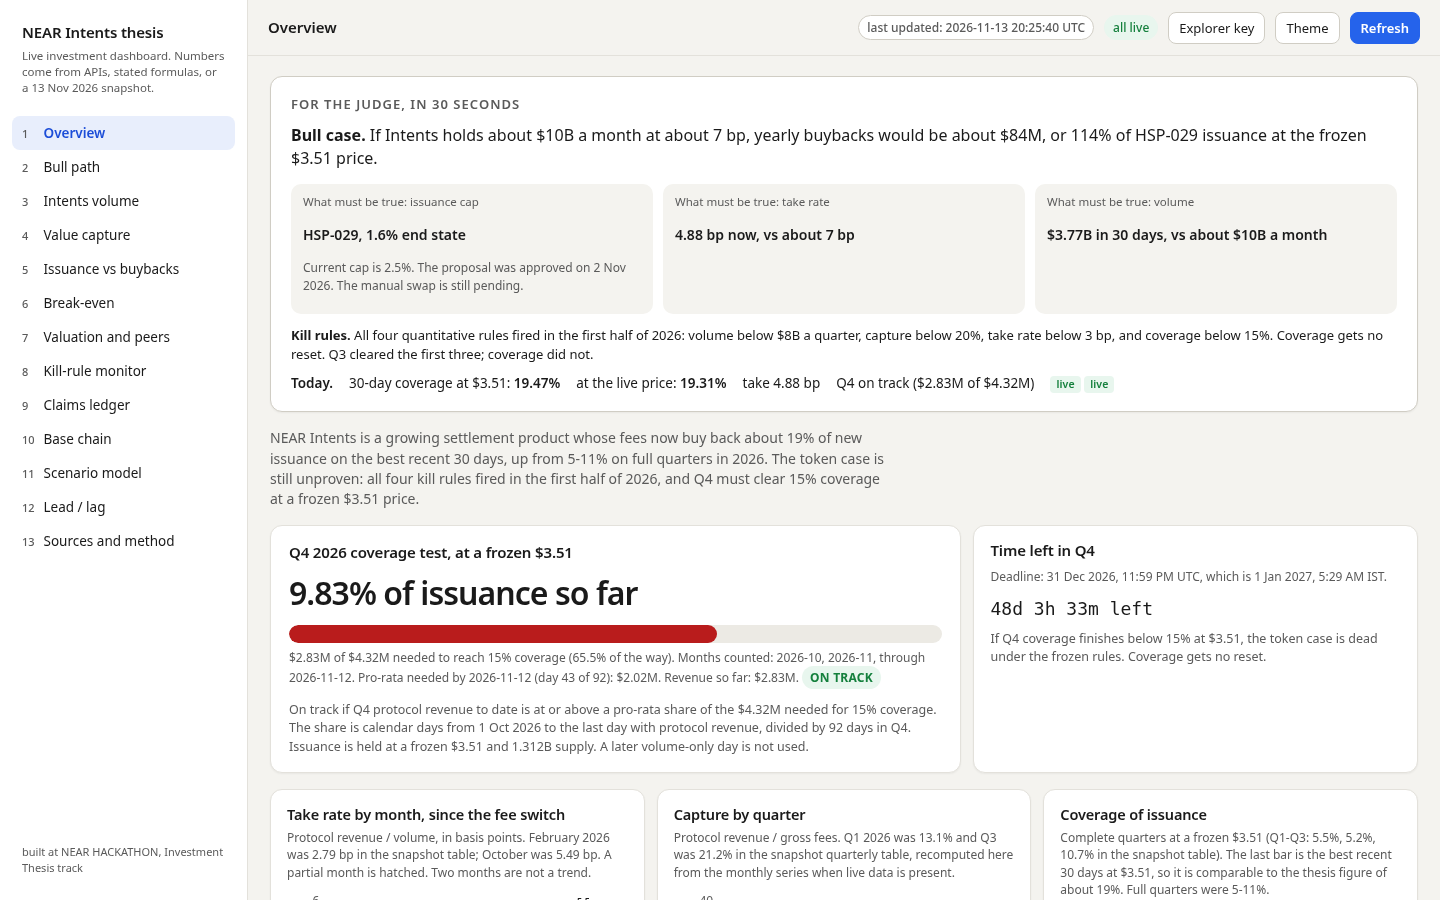
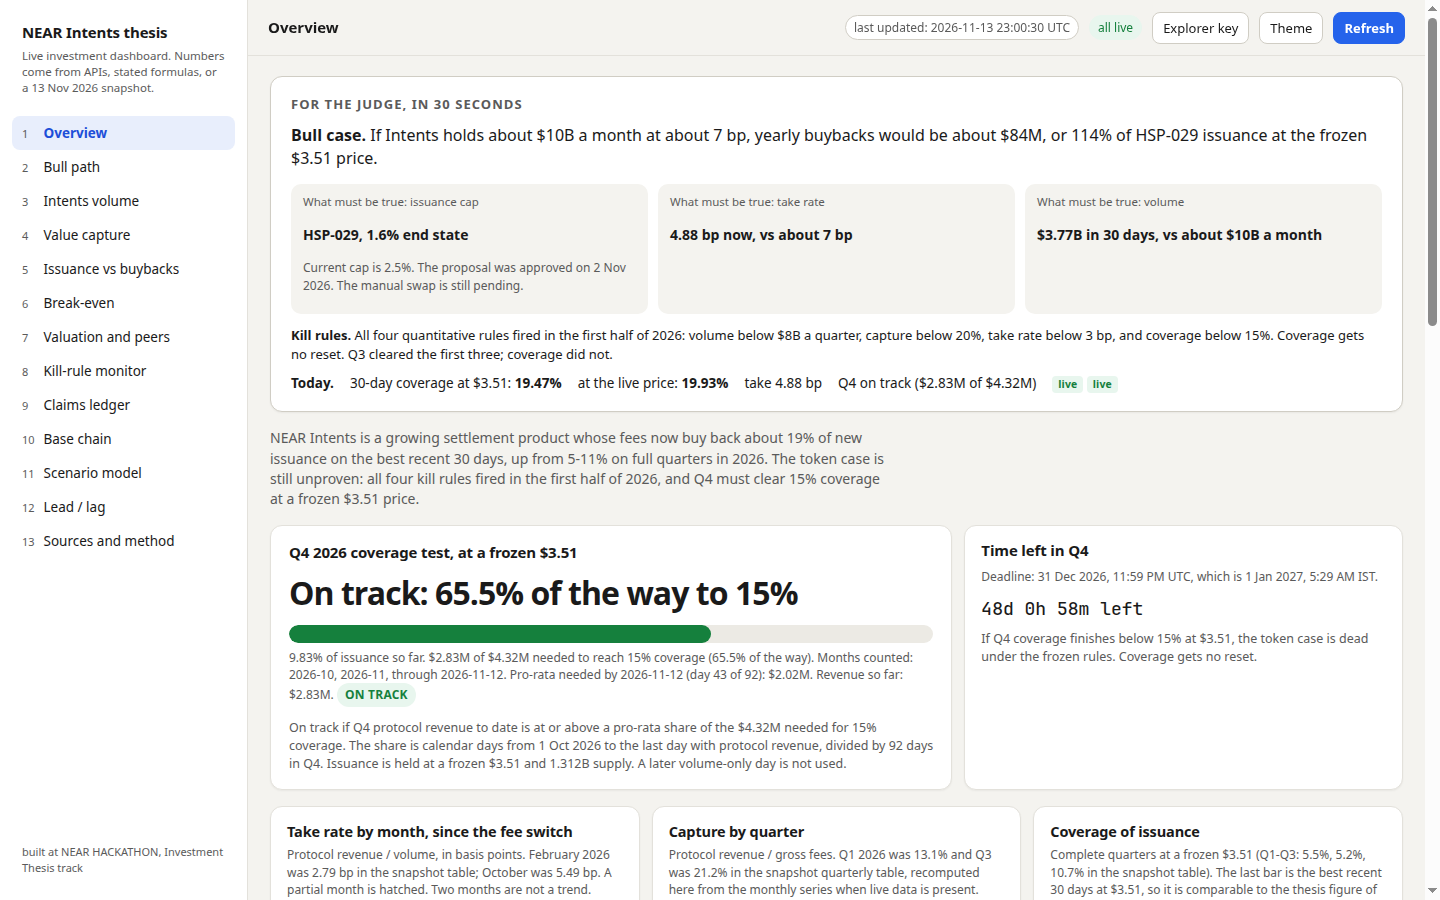
Q4 headline: on-track progress with green bar (#6)
Show Q4 progress as "On track: X% of the way to 15%" and paint the bar green when the quarter is on track.

diff --git a/app.js b/app.js
@@ -664,12 +664,17 @@
     const proLine = pace.proration != null
       ? ("Pro-rata needed by " + pace.lastDay + " (day " + pace.days + " of 92): " + fmtB(pace.proration) + ". Revenue so far: " + fmtB(c.q4rev) + ".")
       : "";
+    const wayPct = ((c.q4progress || 0) * 100).toFixed(1);
+    const head = !pace.known
+      ? (wayPct + "% of the way to 15%")
+      : ((pace.onTrack ? "On track: " : "Not on track: ") + wayPct + "% of the way to 15%");
+    const barCls = !pace.known ? " wait" : (pace.onTrack ? " ontrack" : " risk");
     return '<div class="q4-hero">' +
       '<div class="card hero-main"' + tip(method) + '>' +
         '<h3>Q4 2026 coverage test, at a frozen $3.51</h3>' +
-        '<div class="q4-stat">' + fmtPct(c.q4cov) + " of issuance so far</div>" +
-        '<div class="progress' + ((c.q4cov != null && c.q4cov < 0.15) ? " risk" : "") + '"><span style="width:' + Math.min(100, (c.q4progress || 0) * 100).toFixed(1) + '%"></span></div>' +
-        '<p class="progress-label">' + fmtB(c.q4rev) + " of " + fmtB(Q4_NEEDED) + " needed to reach 15% coverage (" + ((c.q4progress || 0) * 100).toFixed(1) + "% of the way). " +
+        '<div class="q4-stat">' + esc(head) + "</div>" +
+        '<div class="progress' + barCls + '"><span style="width:' + Math.min(100, (c.q4progress || 0) * 100).toFixed(1) + '%"></span></div>' +
+        '<p class="progress-label">' + fmtPct(c.q4cov) + " of issuance so far. " + fmtB(c.q4rev) + " of " + fmtB(Q4_NEEDED) + " needed to reach 15% coverage (" + wayPct + "% of the way). " +
         esc(monthsText) + " " + esc(proLine) + " " + badge + "</p>" +
         '<p class="note">' + esc(method) + "</p>" +
       "</div>" +

diff --git a/index.html b/index.html
@@ -188,6 +188,8 @@
     }
     .progress > span { display: block; height: 100%; background: var(--accent); border-radius: 9px; }
     .progress.risk > span { background: var(--red); }
+    .progress.ontrack > span { background: var(--green); }
+    .progress.wait > span { background: var(--amber); }
     .progress-label { font-size: 12px; color: var(--muted); margin-top: 6px; }
     .sliders { display: grid; grid-template-columns: 1fr 1fr 1fr; gap: 16px; margin-bottom: 14px; }
     .sliders label { display: block; font-size: 12px; color: var(--muted); margin-bottom: 6px; }
